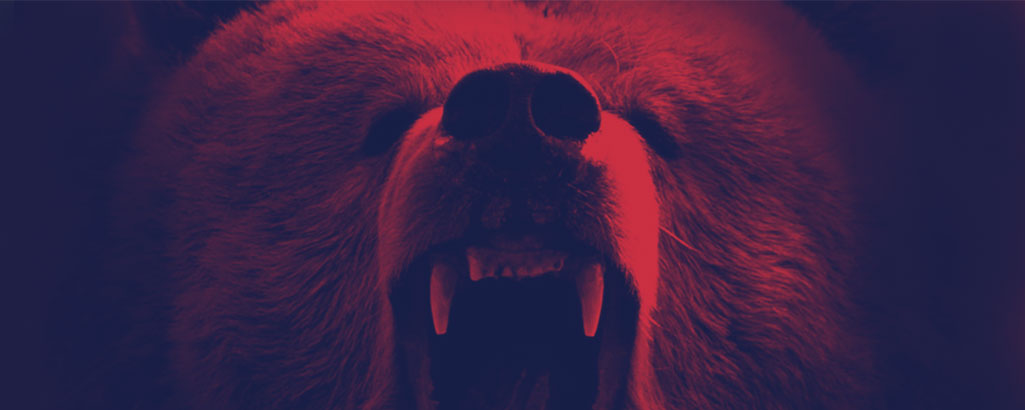
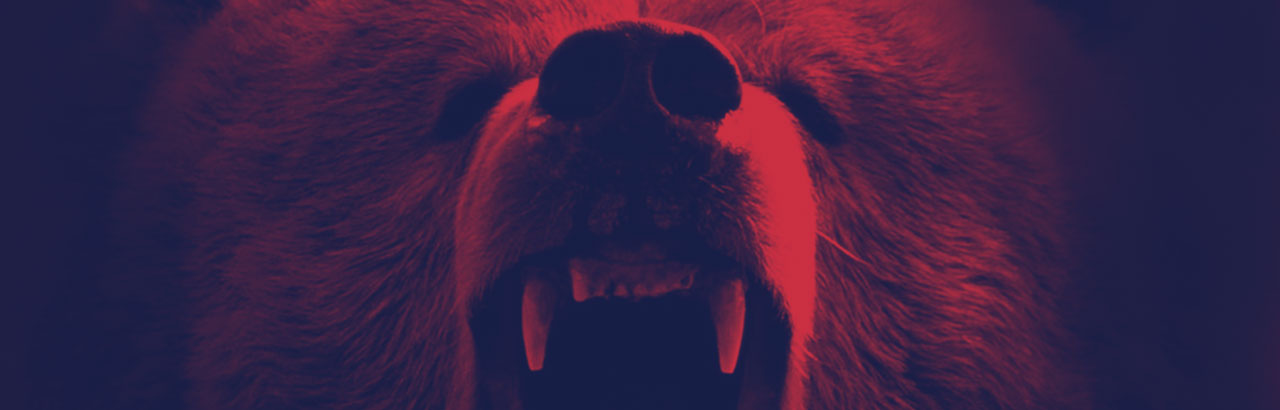
Work -> Background images and size

diff --git a/app/src/sass/views/_what-we-do.sass b/app/src/sass/views/_what-we-do.sass
@@ -198,6 +198,7 @@
   padding: 110px 0 100px
   background-position: center top
   background-repeat: no-repeat
+  background-size: 100% 410px
   box-shadow: 0 0 34px 4px rgba($black, .2)
   text-align: center
   transition: all $transitionDuration $transitionFunction

diff --git a/app/views/what-we-do.php b/app/views/what-we-do.php
@@ -123,7 +123,7 @@
         <div class="work-content">
           <h2 class="work-title title">Camp Hope Falls<span class="text-color accent">.</span></h2>
           <p class="work-lead lead work-anim">
-            Web experience
+            Game Design
           </p>
           <div class="work-ctas work-anim">
             <a href="https://www.behance.net/gallery/35511205/Camp-Hope-Falls" target="_blank" class="btn">Behance</a>
@@ -148,7 +148,7 @@
         <div class="work-content">
           <h2 class="work-title title">Yanki Doodle<span class="text-color accent">.</span></h2>
           <p class="work-lead lead work-anim">
-            Web experience
+            Game Design
           </p>
           <div class="work-ctas work-anim">
             <a href="https://www.behance.net/gallery/35551197/Yanky-Doodle" target="_blank" class="btn">Behance</a>
@@ -164,7 +164,7 @@
           </p>
           <div class="work-ctas work-anim">
             <a href="http://celine.kiwi" target="_blank" class="btn">View site</a>
-            <a href="#todo" target="_blank" class="btn">Behance</a>
+            <!-- <a href="#todo" target="_blank" class="btn">Behance</a> -->
           </div>
         </div>
       </article>
